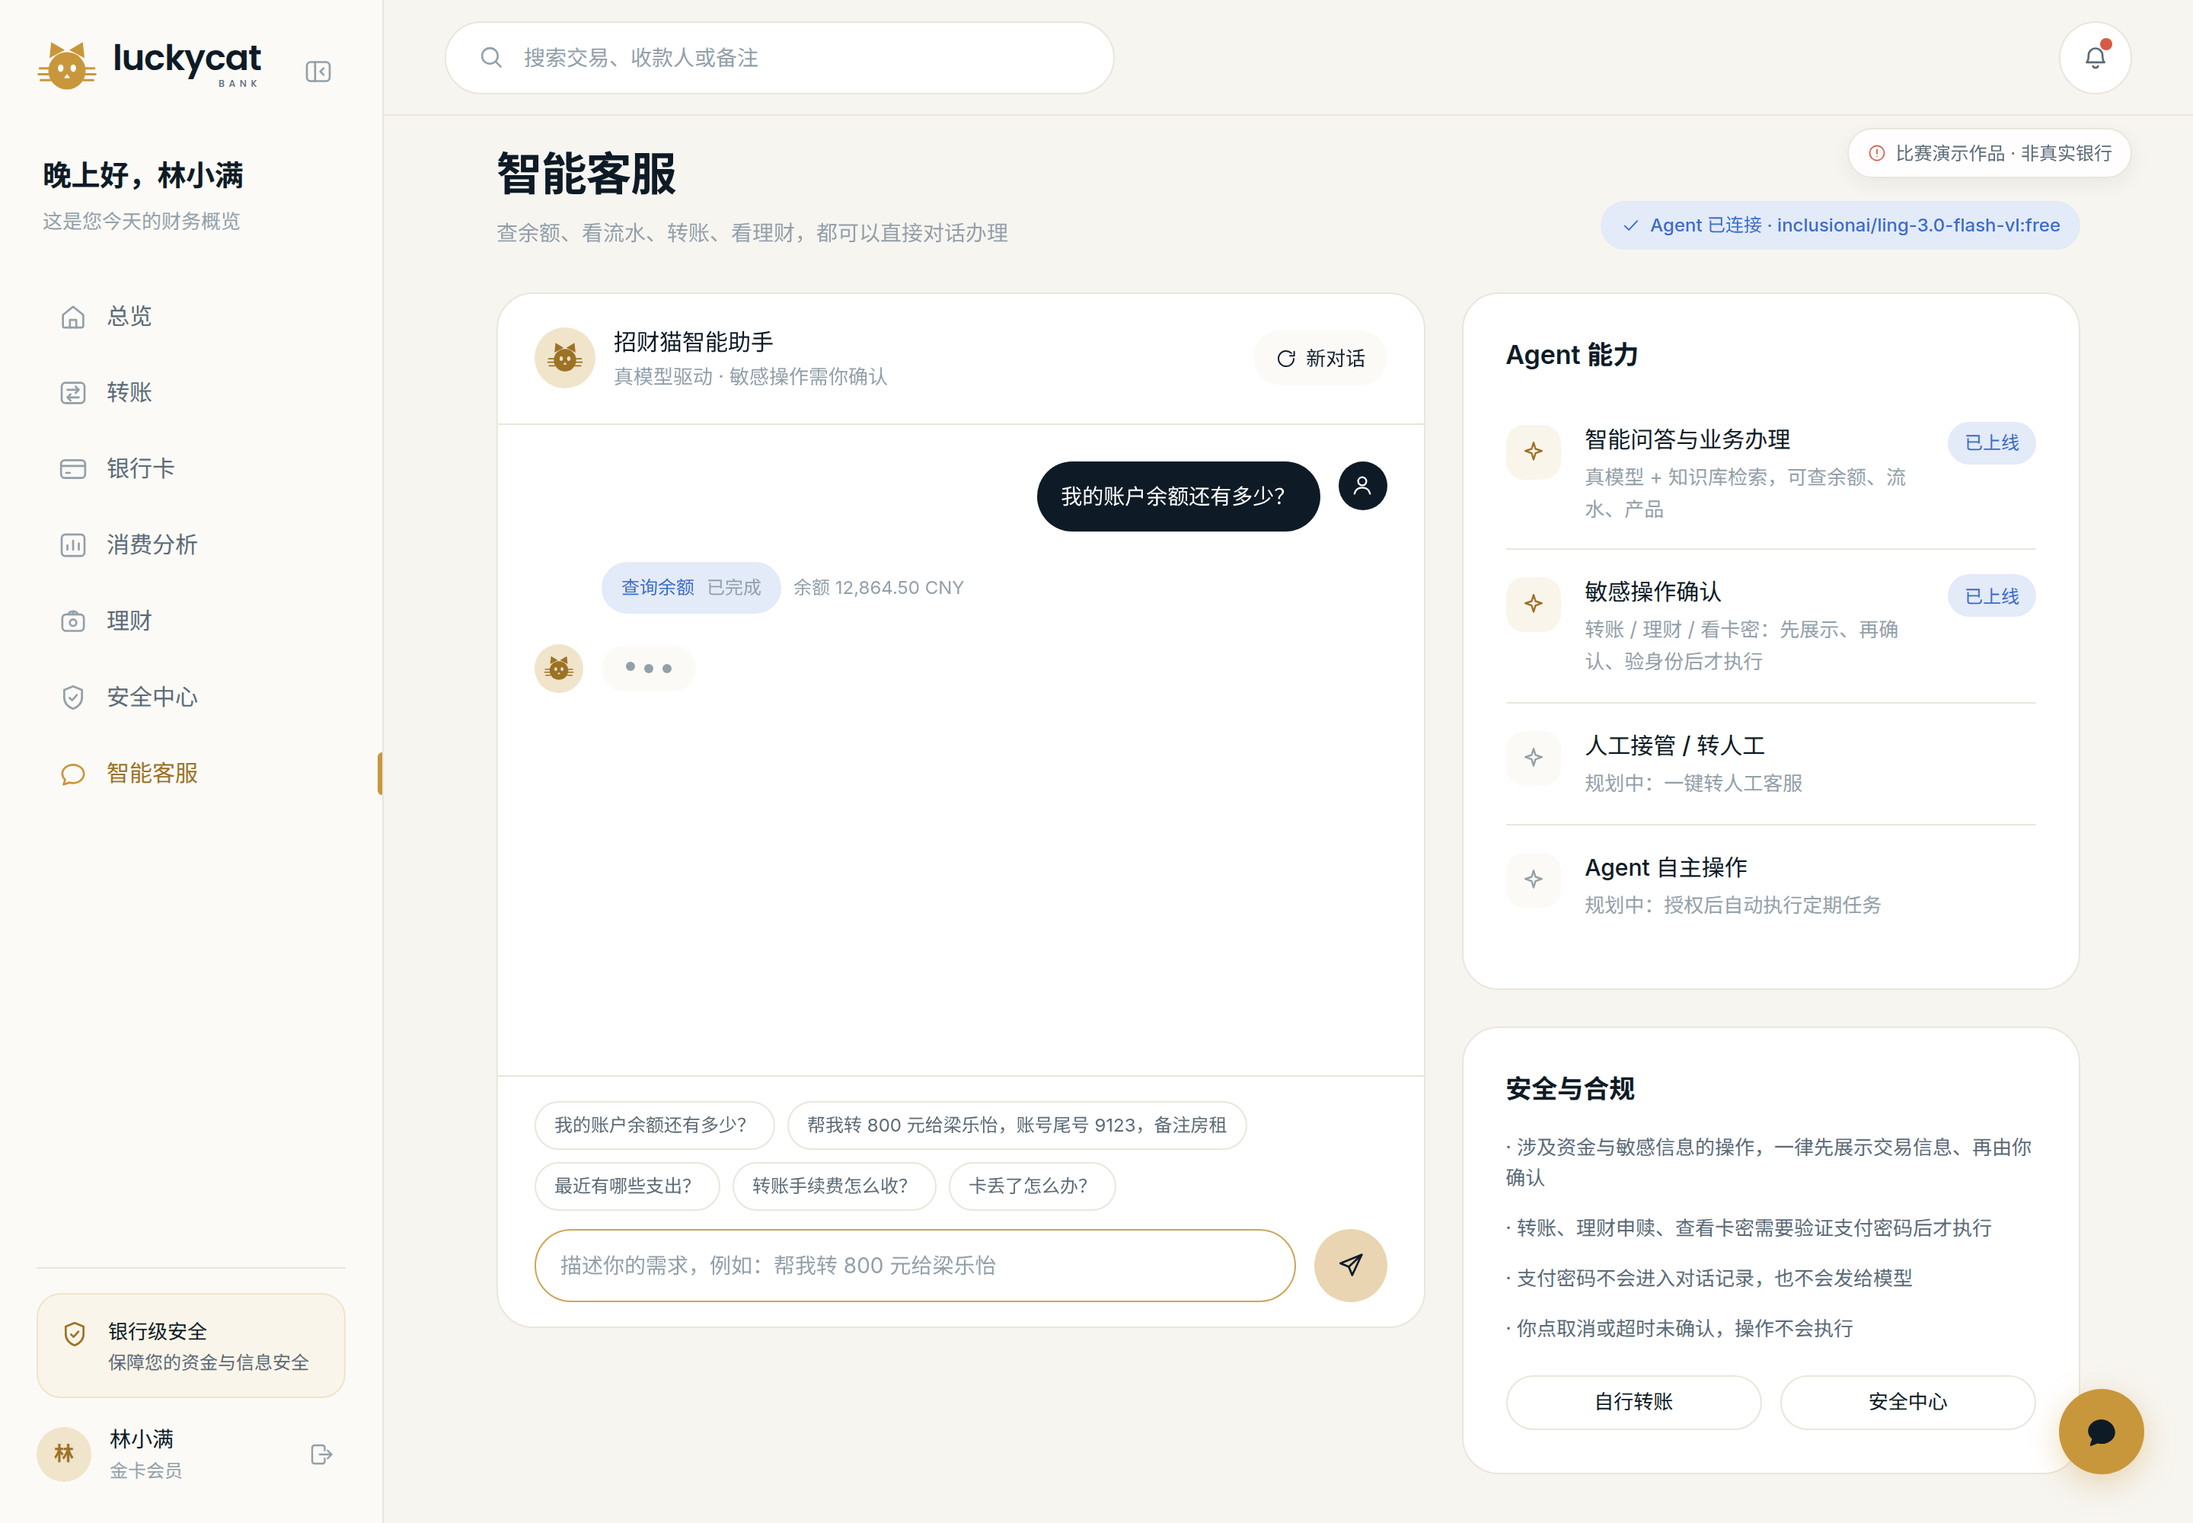
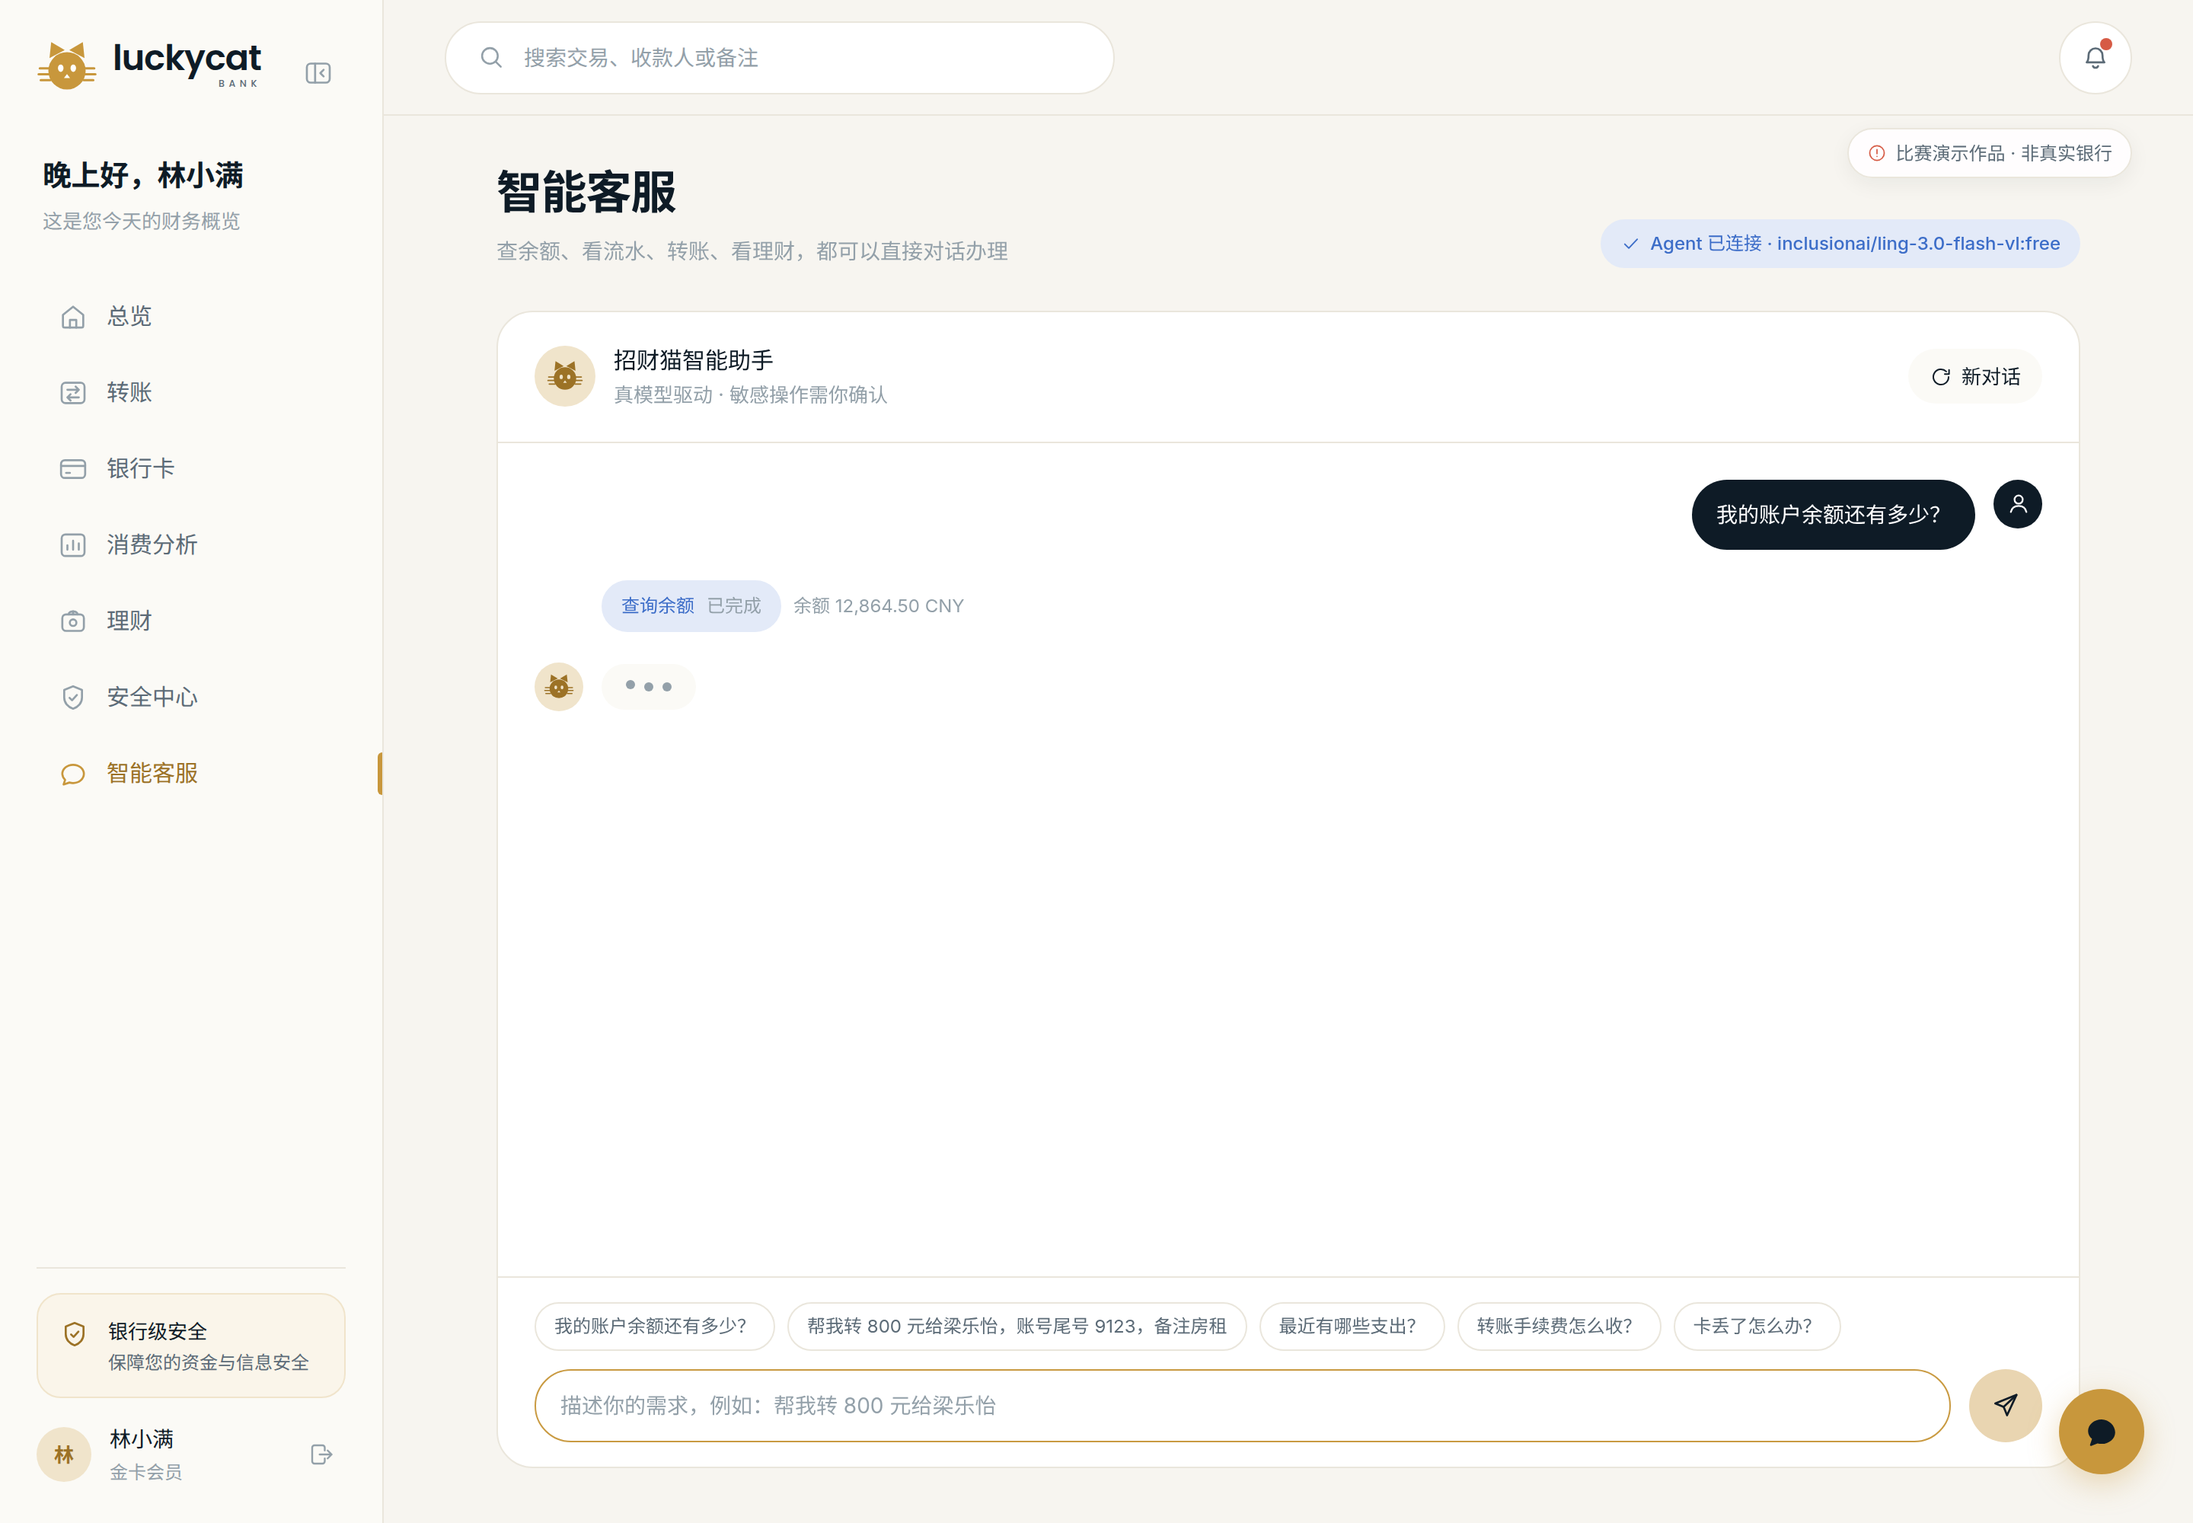
智能客服去掉右侧两栏，只留聊天窗
按要求把「Agent 能力」与「安全与合规」两块撤掉，聊天区独占整页。

顺带修掉撤栏之后暴露的可用性问题：卡片变宽但聊天区还是固定 680px，
确认卡片的标题与"确认"按钮掉到折叠线以下 —— 用户得先滚动才能点确认，
而"漏看信息就确认"正是这套设计要避免的事。两处改动：

- 交易信息在宽屏分两列（细线分隔，沿用原有的发丝边风格），卡片矮约一半；
- 聊天区高度跟着视口走（100vh-240px，min-height 560px），一屏能看全卡片。

安全说明那几条信息没有丢：确认卡片本身就写着"确认后立即扣款，不可撤销"
以及"密码只用于本次校验、不会进入对话记录、也不会发给模型"。

验证：tsc + oxlint 干净；浏览器 14 条断言重跑全过；
截图已按新布局重出（design/shots/agent-0*.png）。

diff --git a/app/src/pages/SupportPage.tsx b/app/src/pages/SupportPage.tsx
@@ -5,7 +5,7 @@ import type { SupportMessage } from '@/api/types'
 import { ConsentCard } from '@/components/agent/ConsentCard'
 import { CatMark } from '@/components/brand/Logo'
 import { Button } from '@/components/ui/Button'
-import { Card, CardHeader } from '@/components/ui/Card'
+import { Card } from '@/components/ui/Card'
 import { Tag } from '@/components/ui/Segmented'
 import { AlertIcon, ArrowRightIcon, CheckIcon, RefreshIcon, SendIcon, SparkleIcon, UserIcon } from '@/components/ui/icons'
 import { cn } from '@/lib/cn'
@@ -18,14 +18,6 @@ const QUICK_ASKS = [
   '最近有哪些支出？',
   '转账手续费怎么收？',
   '卡丢了怎么办？',
-]
-
-/** 能力说明。agent 接通后前两条由真模型承担，这里如实标注。 */
-const CAPABILITIES = [
-  { title: '智能问答与业务办理', description: '真模型 + 知识库检索，可查余额、流水、产品', ready: true },
-  { title: '敏感操作确认', description: '转账 / 理财 / 看卡密：先展示、再确认、验身份后才执行', ready: true },
-  { title: '人工接管 / 转人工', description: '规划中：一键转人工客服', ready: false },
-  { title: 'Agent 自主操作', description: '规划中：授权后自动执行定期任务', ready: false },
 ]
 
 export function SupportPage() {
@@ -115,156 +107,106 @@ export function SupportPage() {
         <ModeTag status={agent.status} model={agent.model} />
       </header>
 
-      <div className="grid gap-6 lg:grid-cols-[1.5fr_1fr]">
-        {/* 对话 */}
-        <Card padded={false} className="float-up flex h-[680px] flex-col overflow-hidden">
-          <div className="flex items-center gap-3 border-b border-line px-6 py-5">
-            <span className="grid size-10 place-items-center rounded-chip bg-gold-wash">
-              <CatMark className="size-6 text-gold-deep" cutout="var(--color-gold-wash)" />
+      {/* 对话 */}
+            {/* 高度跟着视口走：右侧两栏撤掉之后，聊天区可以占满一屏，
+          确认卡片不用滚动就能看全（有 min-height 兜住小窗口）。 */}
+      <Card padded={false} className="float-up flex h-[calc(100vh-240px)] min-h-[560px] flex-col overflow-hidden">
+        <div className="flex items-center gap-3 border-b border-line px-6 py-5">
+          <span className="grid size-10 place-items-center rounded-chip bg-gold-wash">
+            <CatMark className="size-6 text-gold-deep" cutout="var(--color-gold-wash)" />
+          </span>
+          <span>
+            <span className="block text-[15px] font-medium text-ink">招财猫智能助手</span>
+            <span className="block text-[13px] text-ink-mute">
+              {usingAgent ? '真模型驱动 · 敏感操作需你确认' : '演示话术 · agent 未连接'}
             </span>
-            <span>
-              <span className="block text-[15px] font-medium text-ink">招财猫智能助手</span>
-              <span className="block text-[13px] text-ink-mute">
-                {usingAgent ? '真模型驱动 · 敏感操作需你确认' : '演示话术 · agent 未连接'}
-              </span>
-            </span>
-            {usingAgent && (
-              <Button size="sm" variant="ghost" className="ml-auto" icon={<RefreshIcon size={15} />} onClick={agent.reset}>
-                新对话
-              </Button>
-            )}
-          </div>
-
-          <div ref={scroller} className="flex-1 space-y-5 overflow-y-auto px-6 py-6">
-            {usingAgent
-              ? agent.items.map((item) => <AgentBubble key={item.id} item={item} />)
-              : messages.map((msg) => <MessageBubble key={msg.id} message={msg} />)}
-
-            {/* 待确认的敏感操作：工具此刻**还没有执行** */}
-            {agent.pending !== undefined && (
-              <div ref={consentRef}>
-                <ConsentCard
-                  pending={agent.pending}
-                  onApprove={(password) => { agent.answer('approve', password) }}
-                  onReject={() => { agent.answer('reject') }}
-                />
-              </div>
-            )}
-
-            {(usingAgent ? agent.busy : thinking) && agent.pending === undefined && (
-              <div className="flex items-center gap-3">
-                <span className="grid size-8 shrink-0 place-items-center rounded-chip bg-gold-wash">
-                  <CatMark className="size-5 text-gold-deep" cutout="var(--color-gold-wash)" />
-                </span>
-                <span className="flex gap-1.5 rounded-card bg-sunk px-4 py-3">
-                  {[0, 1, 2].map((i) => (
-                    <span
-                      key={i}
-                      className="size-1.5 animate-bounce rounded-chip bg-ink-mute"
-                      style={{ animationDelay: `${i * 120}ms` }}
-                    />
-                  ))}
-                </span>
-              </div>
-            )}
-
-            {usingAgent && agent.items.length === 0 && agent.pending === undefined && (
-              <p className="rounded-card bg-sunk px-4 py-3 text-[13px] text-ink-soft">
-                试试下面的问题。涉及转账、理财申购、查看卡号密码这类操作时，
-                我会先把交易信息列出来，等你确认并验证支付密码之后才执行。
-              </p>
-            )}
-          </div>
-
-          <div className="border-t border-line px-6 py-4">
-            <div className="mb-3 flex flex-wrap gap-2">
-              {QUICK_ASKS.map((q) => (
-                <button
-                  key={q}
-                  type="button"
-                  onClick={() => send(q)}
-                  className="h-8 rounded-chip border border-line px-3 text-[12px] text-ink-soft transition-colors hover:border-gold hover:text-gold-deep"
-                >
-                  {q}
-                </button>
-              ))}
-            </div>
-            <form
-              className="flex items-center gap-3"
-              onSubmit={(e) => {
-                e.preventDefault()
-                send(input)
-              }}
-            >
-              <input
-                value={input}
-                onChange={(e) => setInput(e.target.value)}
-                placeholder={probing ? '正在连接 agent…' : '描述你的需求，例如：帮我转 800 元给梁乐怡'}
-                disabled={probing}
-                className="h-12 flex-1 rounded-chip border border-line bg-surface px-4 text-[14px] text-ink outline-none transition-colors placeholder:text-ink-mute focus:border-gold disabled:bg-sunk"
-              />
-              <button
-                type="submit"
-                aria-label="发送"
-                disabled={(usingAgent ? agent.busy : thinking) || !input.trim() || probing}
-                className="grid size-12 shrink-0 place-items-center rounded-chip bg-gold text-ink transition-colors hover:bg-gold-deep hover:text-ink-invert disabled:cursor-not-allowed disabled:bg-gold/40"
-              >
-                <SendIcon size={20} />
-              </button>
-            </form>
-          </div>
-        </Card>
-
-        {/* 能力说明 */}
-        <div className="flex flex-col gap-6">
-          <Card className="float-up" style={{ animationDelay: '60ms' }}>
-            <CardHeader title="Agent 能力" />
-            <ul className="mt-4 divide-y divide-line">
-              {CAPABILITIES.map((item) => (
-                <li key={item.title} className="flex items-start gap-4 py-4">
-                  <span
-                    className={cn(
-                      'mt-0.5 grid size-9 shrink-0 place-items-center rounded-tile',
-                      item.ready ? 'bg-gold-tint text-gold-deep' : 'bg-sunk text-ink-mute',
-                    )}
-                  >
-                    <SparkleIcon size={18} />
-                  </span>
-                  <span className="min-w-0 flex-1">
-                    <span className="block text-[15px] font-medium text-ink">{item.title}</span>
-                    <span className="mt-0.5 block text-[13px] text-ink-mute">
-                      {item.description}
-                    </span>
-                  </span>
-                  {item.ready && <Tag tone="blue">已上线</Tag>}
-                </li>
-              ))}
-            </ul>
-          </Card>
-
-          <Card className="float-up" style={{ animationDelay: '120ms' }}>
-            <CardHeader title="安全与合规" />
-            <ul className="mt-4 flex flex-col gap-3 text-[13px] text-ink-soft">
-              <li>· 涉及资金与敏感信息的操作，一律先展示交易信息、再由你确认</li>
-              <li>· 转账、理财申赎、查看卡密需要验证支付密码后才执行</li>
-              <li>· 支付密码不会进入对话记录，也不会发给模型</li>
-              <li>· 你点取消或超时未确认，操作不会执行</li>
-            </ul>
-            <div className="mt-5 flex gap-3">
-              <Link to="/transfer" className="flex-1">
-                <Button block size="sm">
-                  自行转账
-                </Button>
-              </Link>
-              <Link to="/security" className="flex-1">
-                <Button block size="sm">
-                  安全中心
-                </Button>
-              </Link>
-            </div>
-          </Card>
+          </span>
+          {usingAgent && (
+            <Button size="sm" variant="ghost" className="ml-auto" icon={<RefreshIcon size={15} />} onClick={agent.reset}>
+              新对话
+            </Button>
+          )}
         </div>
-      </div>
+
+        <div ref={scroller} className="flex-1 space-y-5 overflow-y-auto px-6 py-6">
+          {usingAgent
+            ? agent.items.map((item) => <AgentBubble key={item.id} item={item} />)
+            : messages.map((msg) => <MessageBubble key={msg.id} message={msg} />)}
+
+          {/* 待确认的敏感操作：工具此刻**还没有执行** */}
+          {agent.pending !== undefined && (
+            <div ref={consentRef}>
+              <ConsentCard
+                pending={agent.pending}
+                onApprove={(password) => { agent.answer('approve', password) }}
+                onReject={() => { agent.answer('reject') }}
+              />
+            </div>
+          )}
+
+          {(usingAgent ? agent.busy : thinking) && agent.pending === undefined && (
+            <div className="flex items-center gap-3">
+              <span className="grid size-8 shrink-0 place-items-center rounded-chip bg-gold-wash">
+                <CatMark className="size-5 text-gold-deep" cutout="var(--color-gold-wash)" />
+              </span>
+              <span className="flex gap-1.5 rounded-card bg-sunk px-4 py-3">
+                {[0, 1, 2].map((i) => (
+                  <span
+                    key={i}
+                    className="size-1.5 animate-bounce rounded-chip bg-ink-mute"
+                    style={{ animationDelay: `${i * 120}ms` }}
+                  />
+                ))}
+              </span>
+            </div>
+          )}
+
+          {usingAgent && agent.items.length === 0 && agent.pending === undefined && (
+            <p className="rounded-card bg-sunk px-4 py-3 text-[13px] text-ink-soft">
+              试试下面的问题。涉及转账、理财申购、查看卡号密码这类操作时，
+              我会先把交易信息列出来，等你确认并验证支付密码之后才执行。
+            </p>
+          )}
+        </div>
+
+        <div className="border-t border-line px-6 py-4">
+          <div className="mb-3 flex flex-wrap gap-2">
+            {QUICK_ASKS.map((q) => (
+              <button
+                key={q}
+                type="button"
+                onClick={() => send(q)}
+                className="h-8 rounded-chip border border-line px-3 text-[12px] text-ink-soft transition-colors hover:border-gold hover:text-gold-deep"
+              >
+                {q}
+              </button>
+            ))}
+          </div>
+          <form
+            className="flex items-center gap-3"
+            onSubmit={(e) => {
+              e.preventDefault()
+              send(input)
+            }}
+          >
+            <input
+              value={input}
+              onChange={(e) => setInput(e.target.value)}
+              placeholder={probing ? '正在连接 agent…' : '描述你的需求，例如：帮我转 800 元给梁乐怡'}
+              disabled={probing}
+              className="h-12 flex-1 rounded-chip border border-line bg-surface px-4 text-[14px] text-ink outline-none transition-colors placeholder:text-ink-mute focus:border-gold disabled:bg-sunk"
+            />
+            <button
+              type="submit"
+              aria-label="发送"
+              disabled={(usingAgent ? agent.busy : thinking) || !input.trim() || probing}
+              className="grid size-12 shrink-0 place-items-center rounded-chip bg-gold text-ink transition-colors hover:bg-gold-deep hover:text-ink-invert disabled:cursor-not-allowed disabled:bg-gold/40"
+            >
+              <SendIcon size={20} />
+            </button>
+          </form>
+        </div>
+      </Card>
     </div>
   )
 }
